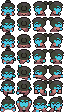
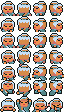
주인공 남성 고정, 히로인 정리, 호칭 체계 추가
- 시작 화면에서 여성 외형을 빼고 남성 외형 5종으로 고정, 이름은 직접 입력해야 시작
- 철우를 연애 대상에서 빼고 호감 70에 의형제를 맺는 인연으로 변경
- 남궁진과 당소연의 그림을 여성 인물로 교체
- 호칭 20종과 메뉴의 호칭 화면 추가, 천하비무 대진표에서 별호 직접 짓기
- 대사, 전투 화면, 엔딩에 고른 호칭 반영
- 옛 저장을 새 설정으로 옮기는 처리 추가

Claude-Session: https://claude.ai/code/session_01UsE88WbmcPGyB1TXiMVMP7

diff --git a/js/life.js b/js/life.js
@@ -12,6 +12,16 @@ import { icon, iconUrl, nameOf, descOf } from './icons.js';
 import { showResult } from './ui.js';
 
 const S = () => G.S, F = () => G.S.flags;
+// 글을 받아 적는 창
+export function askText(title, hint, def, max = 10) {
+  if (G.auto) return Promise.resolve(def);
+  return panel(title, (B, r, close) => {
+    B.innerHTML = `<p class="hint">${esc(hint)}</p><div class="field"><input id="askv" maxlength="${max}" autocomplete="off" style="flex:1;min-width:0;width:auto"> <button class="btn pri" id="askok" style="flex:none;white-space:nowrap">정한다</button></div>`;
+    B.closest('.pane').style.height = 'auto'; const i = $('#askv', B), ok = () => close(i.value.trim() || def); i.value = def; setTimeout(() => { i.focus(); i.select(); }, 300);
+    $('#askok', B).onclick = ok; i.addEventListener('keydown', e => { if (e.key === 'Enter' && !e.isComposing) { e.preventDefault(); e.stopPropagation(); ok(); } });
+  }, 560).then(v => v || def);
+}
+ctx.ask = askText;
 // 범용 창
 export function panel(title, draw, width = 820) {
   return new Promise(res => {
@@ -159,7 +169,7 @@ async function realtor() {
 export const CAND = {
   yun: { name: '윤설', likes: ['tea', 'herb', 'poem', 'honey'], loves: ['ginseng', 'antler', 'hairpin'], hates: ['venom', 'f_catfish'], chat: ['약초를 말릴 때는 그늘이 좋아요. 사람도요.', '장부 정리하다 보면 시간이 금방 가요. 당신 칸이 제일 길어요.', '그렇게 웃으면 약값 깎아 줄 줄 알죠? 조금은요.'], date: ['강가에서 약초를 캤다. 윤설이 말없이 도시락을 내밀었다.', '윤설이 장부를 덮고 산책을 나섰다. 드문 일이다.', '둘이서 약초 이름 맞히기를 했다. 윤설이 전부 이겼다.'], confess: ['…알아요. 창문이 그쪽이라고 했잖아요. 처음부터 다 봤어요.', '좋아해요. 장부에는 안 적을게요.'], propose: ['옥가락지네요. 값은 얼마 줬어요? 아니, 묻지 않을게요.', '네. 약값은 평생 갚아요.'], wife: ['일어났어요? 어제 무리했던데, 이 약 먹어요.', '아침은 차려 놨어요. 장부에는 안 적어요.', '오늘은 다치지 말고 와요.'] },
   so: { name: '소연하', likes: ['plum_wine', 'skewer', 'hairpin'], loves: ['ore_star', 'poem', 'ginseng_soup'], hates: ['sachet', 'sweets'], chat: ['칼을 닦다 보면 생각이 정리돼. 너는 걸레질이 그렇겠네.', '사부 얘기는 이제 괜찮아. 물어봐도 돼.', '오늘 한 판 할래? 지면 술 사.'], date: ['둘이서 비무를 하다가 술을 마셨다. 소연하가 처음으로 크게 웃었다.', '산등성이에서 달을 봤다. 소연하가 칼 대신 술잔을 들었다.', '내기 비무에서 졌다. 술값은 내 몫이다.'], confess: ['…지금 그 말, 비무 도중에 하면 내가 졌겠네.', '그래. 나도야. 이제 칼 얘기 말고 다른 얘기도 해 보자.'], propose: ['가락지보다 칼이 더 익숙한데… 줘 봐. 맞네.', '평생 대련 상대가 되어 줘. 그게 내 대답이야.'], wife: ['일어나. 새벽 대련 안 할 거야?', '네 걸음 아직도 왼발이 늦어. 고쳐 줄게.', '술은 저녁에. 오늘은 내가 살게.'] },
-  cheol: { name: '철우', likes: ['meat', 'skewer', 'noodle'], loves: ['plum_wine', 'ginseng_soup', 'eel_rice'], hates: ['tea', 'herb'], chat: ['시주, 오늘은 뭘 먹었소? 나는 아직이오.', '부처님은 밥값을 말씀하신 적이 없소.', '문은 부수라고 있는 것이오.'], date: ['철우와 시장을 돌며 만두를 먹었다. 값은 내가 냈다.', '철우가 강에 뛰어들어 맨손으로 잉어를 잡았다. 저녁이 해결됐다.', '철우가 불경을 외우다 잠들었다. 코 고는 소리가 불경보다 낭랑했다.'], confess: ['시주… 아니, {나}. 내 평생 밥 사 준 사람은 그대뿐이오.', '소승은 이미 파계했으니 걸릴 것이 없소. 좋소.'], propose: ['이 손으로 가락지를 끼다니, 부처님이 웃으시겠소.', '평생 밥은 내가 짓겠소. 값은 그대가 내고.'], wife: ['밥 지어 놨소. 많이 지었소. 내가 먹으려고.', '아침 수련은 밥 먹고 합시다.', '오늘도 문 하나 고쳐 놨소. 어제 내가 부순 것이오.'] },
+  cheol: { name: '철우', likes: ['meat', 'skewer', 'noodle'], loves: ['plum_wine', 'ginseng_soup', 'eel_rice'], hates: ['tea', 'herb'], chat: ['시주, 오늘은 뭘 먹었소? 나는 아직이오.', '부처님은 밥값을 말씀하신 적이 없소.', '문은 부수라고 있는 것이오.'], date: ['철우와 시장을 돌며 만두를 먹었다. 값은 내가 냈다.', '철우가 강에 뛰어들어 맨손으로 잉어를 잡았다. 저녁이 해결됐다.', '철우가 불경을 외우다 잠들었다. 코 고는 소리가 불경보다 낭랑했다.'], sworn: ['시주… 아니, 아우. 내 평생 밥 사 준 사람은 그대뿐이오.', '소승은 이미 파계했으니 걸릴 것이 없소. 오늘부터 형제요. 밥값은 아우가 내는 것이오.'] },
   clan_dang: { name: '당소연', likes: ['venom', 'herb', 'sachet'], loves: ['antler', 'ginseng', 'hairpin'], hates: ['sweets', 'noodle'], chat: ['내 찻잔엔 손대지 마. 네 건 안전해. 아마도.', '독은 양이 문제야. 사람도 그렇고.', '오늘 네 얼굴색이 좋네. 중독은 아니야.'], date: ['당소연이 새로 만든 약을 시험하자고 했다. 다행히 해독제도 있었다.', '둘이서 독초밭을 걸었다. 묘하게 평화로웠다.', '당소연이 처음으로 독 없는 차를 끓여 주었다.'], confess: ['조심해. 당가 사람 마음을 건드린 사람은 대개 후회해.', '…후회하지 않겠다면, 그래.'], propose: ['가락지에 독침은 안 넣었어. 약속할게.', '좋아. 이제 네 음식은 내가 책임져.'], wife: ['아침밥이야. 해독제는 옆에 뒀어. 농담이야.', '암기 정비 끝. 오늘은 누구 만나러 가?', '네 찻잔은 따로 쓰자. 안전을 위해서.'] },
   clan_moyong: { name: '모용설', likes: ['poem', 'tea', 'silver_cup'], loves: ['hairpin', 'gold_cup', 'f_gold'], hates: ['meat', 'hide'], chat: ['네 말투를 따라 해 봤어. 재미없네.', '받은 만큼 돌려주는 게 모용의 예법이야. 선물도.', '걸레질이 진짜였다니. 믿을 수가 없어.'], date: ['모용설과 시를 지었다. 모용설이 내 시를 그대로 되돌려 주었다.', '거울 앞에서 서로의 초식을 흉내 내며 놀았다.', '모용설이 처음으로 예법을 잊고 웃었다.'], confess: ['돌려주는 게 예법이니까… 나도 같은 말을 돌려줄게.', '좋아해. 이건 흉내가 아니야.'], propose: ['가락지를 돌려줄 생각은 없어.', '받을게. 대신 평생 돌려줄 거야.'], wife: ['네 인사를 그대로 돌려줄게. 잘 잤어?', '오늘은 내가 네 초식을 고쳐 줄게.', '거울이 하나 더 필요해. 둘이 쓰기엔 좁아.'] },
   clan_namgung: { name: '남궁진', likes: ['silver_cup', 'gold_cup', 'tea'], loves: ['ore_star', 'plum_wine', 'poem'], hates: ['meat', 'f_crucian'], chat: ['국수라는 걸 먹어 봤다. …나쁘지 않더군.', '남궁의 검은 출신을 묻지 않는다. 내가 정했다.', '너를 이기기 전에는 눈을 감지 않겠다.'], date: ['남궁진이 처음으로 저잣거리를 걸었다. 어색하게 만두를 들고 있었다.', '둘이서 검을 겨루고 말없이 달을 보았다.', '남궁진이 국수를 두 그릇 먹었다. 비밀로 해 달라고 했다.'], confess: ['…가문에 뭐라고 말해야 할지 계산이 안 된다. 그러나 답은 정해져 있다.', '내 마음도 같다. 검을 걸고 말한다.'], propose: ['남궁세가가 뒤집히겠군. 좋다.', '받겠다. 가문은 내가 설득하지.'], wife: ['일찍 일어났군. 나는 이미 검을 천 번 휘둘렀다.', '국수를 만들어 봤다. 먹어 봐라. 비밀이다.', '오늘도 내가 이긴다.'] },
@@ -168,7 +178,7 @@ const THANKS = {
   yun: ['이걸 어떻게 알았어요? 제일 좋아하는 거예요.', '고마워요. 잘 쓸게요.', '고맙게 받을게요.', '…이걸 저한테요?'], so: ['어떻게 알았어? 이거 진짜 좋아해.', '오, 괜찮네. 고마워.', '고마워. 받아 둘게.', '이런 건 안 좋아해.'], cheol: ['시주! 부처님이 오셨소!', '고맙소. 잘 먹겠소.', '고맙소. 먹는 거요?', '이건 입에 안 맞소.'],
   clan_dang: ['…어떻게 알았지? 조사했어?', '쓸 만하네. 고마워.', '받아 둘게. 독은 안 넣었겠지?', '이건 내가 독을 넣어도 못 살리겠어.'], clan_moyong: ['이런 건 돌려주기 아까운데. 고마워.', '받았어. 언젠가 돌려줄게.', '고마워. 예법대로 받을게.', '이건 그대로 돌려줄게.'], clan_namgung: ['…탐나는 물건이다. 어떻게 구했지?', '나쁘지 않군. 고맙다.', '받아 두지.', '남궁에 이런 것을 가져오다니.'],
 };
-export const stageOf = (id) => { const s = G.S, l = s.love[id] || 0; return s.married === id ? '부부' : s.partner === id ? '연인' : l >= 70 ? '각별한 사이' : l >= 40 ? '가까운 벗' : l >= 15 ? '친구' : '아는 사이'; };
+export const stageOf = (id) => { const s = G.S, l = s.love[id] || 0; return s.sworn === id ? '의형제' : s.married === id ? '부부' : s.partner === id ? '연인' : l >= 70 ? '각별한 사이' : l >= 40 ? '가까운 벗' : l >= 15 ? '친구' : '아는 사이'; };
 const addLove = (id, n) => { G.S.love[id] = clamp((G.S.love[id] || 0) + n, 0, 100); F()['met_' + id] = true; };
 async function giveGift(id) {
   const ids = Object.keys(S().inv).filter(k => DB[k] && ['선물', '요리', '물고기', '재료', '보물'].includes(DB[k].kind));
@@ -190,13 +200,20 @@ async function propose(id) {
   await fadeTo(1); await narr(`${F().step === 'end' ? '달맞이 객잔 마당에 혼례상이 차려졌다.\n곽 아주머니가 국수를 끓였고, 뱃사공 노씨가 울었고,\n철 대장장이는 밥값을 받지 않았다.' : '청하진 사람들이 내 집 마당에 혼례상을 차렸다.\n뱃사공 노씨가 울었고, 철 대장장이는 밥값을 받지 않았다.\n곽 아주머니 자리는 비워 두었다.'}\n\n${S().name}와(과) ${c.name}은(는) 부부가 되었다.`); await fadeTo(0);
   S().married = id; addLove(id, 100); Sound.sfx('ok3'); toast('혼인했다! 배우자가 집에서 기다린다.', 3.5); G.field.refresh();
 }
+async function swear(id) {
+  const c = CAND[id]; await say('me', '형님으로 모시겠습니다.'); for (const l of c.sworn) await say(id, l);
+  S().sworn = id; Sound.sfx('ok3'); toast(`${c.name}와(과) 의형제를 맺었다`, 3); ctx.note(`${c.name}와(과) 의형제를 맺었다.`);
+}
 async function romance(id, base) {
   const c = CAND[id], s = S(), L = s.love[id] || 0, d = s.daily, opts = [];
   opts.push(['이야기한다', async () => { await base(); if (!d['chat_' + id]) { d['chat_' + id] = 1; addLove(id, 3); await say(id, pick(c.chat)); } }]);
   if (!d['gift_' + id]) opts.push(['선물을 준다', () => giveGift(id)]);
-  if (s.partner === id && !d['date_' + id]) opts.push(['나들이를 간다', async () => { d['date_' + id] = 1; addLove(id, 7); await narr(pick(c.date)); }]);
-  if (L >= 70 && !s.partner && !s.married) opts.push(['마음을 전한다', () => confess(id)]);
-  if (s.partner === id && !s.married && L >= 100) opts.push(['혼인을 청한다', () => propose(id)]);
+  if ((s.partner === id || s.sworn === id) && !d['date_' + id]) opts.push([c.sworn ? '밥을 먹으러 간다' : '나들이를 간다', async () => { d['date_' + id] = 1; addLove(id, 7); await narr(pick(c.date)); }]);
+  if (c.sworn) { if (L >= 70 && s.sworn !== id) opts.push(['의형제를 맺는다', () => swear(id)]); }
+  else {
+    if (L >= 70 && !s.partner && !s.married) opts.push(['마음을 전한다', () => confess(id)]);
+    if (s.partner === id && !s.married && L >= 100) opts.push(['혼인을 청한다', () => propose(id)]);
+  }
   opts.push(['그만둔다', async () => { }]);
   const k = await choice(`${c.name} · ${stageOf(id)} (호감 ${L})`, opts.map(o => o[0])); await opts[k][1]();
 }
@@ -253,7 +270,7 @@ Story.providers.push(function content4(id) {
   if (id === 'bamboo') for (const [a, x, y] of [['rabbit', 14, 15.5], ['pheasant', 30.5, 20], ['rabbit', 20, 7.5]]) hunt.push({ kind: a, x, y });
   if (id === 'myhouse') {
     s.house.items.forEach(i => { const a = FURN[i.id].act; if (a) { const [w, h] = size(i.id); sp.push({ x: i.x, y: i.y, w, h, hint: { bed: '잠자기', cook: '요리하기', bench: '가구 만들기', book: '책 읽기', dummy: '수련하기' }[a], act: () => furnAct(a) }); } });
-    if (s.married) n.push({ id: s.married, spr: { yun: 'Princess', so: 'RedSamurai', cheol: 'Monk2', clan_dang: 'Dang', clan_moyong: 'Moyong', clan_namgung: 'Namgung' }[s.married], x: 4, y: 3.5, dir: 0, talk: async () => { await say(s.married, pick(CAND[s.married].wife)); } });
+    if (s.married) n.push({ id: s.married, spr: { yun: 'Princess', so: 'RedSamurai', clan_dang: 'Dang', clan_moyong: 'Moyong', clan_namgung: 'Namgung' }[s.married], x: 4, y: 3.5, dir: 0, talk: async () => { await say(s.married, pick(CAND[s.married].wife)); } });
   }
   return { npcs: n, spots: sp, trigs: [], roam: [], hunt };
 });

diff --git a/js/ui.js b/js/ui.js
@@ -1,4 +1,5 @@
 // 제목 화면, 주인공 만들기, 메뉴, 상점, 결과창
+import { TITLES } from './titles.js';
 import { G, IMG, Input, Sound, $, $$, el, esc, toast, clamp, wait, fadeTo, TS } from './core.js';
 import { SKILLS, WEAPONS, HEARTS, ITEMS, rankOf, expNeed } from './data.js';
 import { newState, stats, save, load, hasSave, masteryLv, canEquip, DIFF, learn, have, give, take } from './state.js';
@@ -7,7 +8,7 @@ import { icon } from './icons.js';
 import { Story } from './story.js';
 import { CLANS, SAPA, clansWon } from './clandata.js';
 
-const LOOKS = [['BlueSamurai', '상투 머리'], ['Boy', '다홍 머리'], ['Villager3', '곱슬 머리'], ['Cavegirl2', '보랏빛 머리'], ['Woman', '금빛 머리'], ['Villager4', '단발 머리']];
+const LOOKS = [['BlueSamurai', '상투 머리'], ['Boy', '다홍 머리'], ['Villager3', '곱슬 머리'], ['GrayNinja', '머리띠'], ['DarkNinja', '검은 복면']];
 function titleBg(c) {
   c.setTransform(1, 0, 0, 1, 0, 0); const g = c.createLinearGradient(0, 0, 0, 720); g.addColorStop(0, '#1b2348'); g.addColorStop(.62, '#4b3560'); g.addColorStop(1, '#c0694a'); c.fillStyle = g; c.fillRect(0, 0, 1280, 720);
   c.fillStyle = '#f7eecb'; c.beginPath(); c.arc(960, 170, 76, 0, 7); c.fill(); c.fillStyle = 'rgba(247,238,203,.12)'; c.beginPath(); c.arc(960, 170, 120, 0, 7); c.fill();
@@ -24,7 +25,7 @@ function drawLook(cv, key) { const x = cv.getContext('2d'); cv.width = 16; cv.he
 function showCreate() {
   const s = $('#screen'); let look = 0, diff = 'normal';
   s.innerHTML = `<div class="sheet"><div class="card"><h2>어떤 낭인입니까?</h2><div class="hint">군막에서는 번호로 불렸습니다. 이름 하나만은 잊지 않았습니다.</div>
-  <div class="field"><span>이름</span><input id="nm" maxlength="6" value="진소" autocomplete="off"></div>
+  <div class="field"><span>이름</span><input id="nm" maxlength="6" placeholder="이름을 입력하세요" autocomplete="off"></div>
   <div class="looks" id="lk"></div>
   <div class="field"><span>난이도</span><div class="seg" id="df"></div></div>
   <div class="hint">쉬움은 적이 약하고, 어려움은 적의 공격이 세고 체력도 많습니다. 나중에 바꿀 수 없습니다.</div>
@@ -32,7 +33,7 @@ function showCreate() {
   LOOKS.forEach(([k, n], i) => { const b = el('button', 'look' + (i === 0 ? ' on' : '')), cv = document.createElement('canvas'); drawLook(cv, k); b.appendChild(cv); b.appendChild(document.createTextNode(n)); b.onclick = () => { look = i; $$('.look').forEach((e, j) => e.classList.toggle('on', j === i)); Sound.sfx('tick'); }; $('#lk').appendChild(b); });
   for (const k of ['easy', 'normal', 'hard']) { const b = el('button', 'btn' + (k === diff ? ' on' : ''), DIFF[k].name); b.onclick = () => { diff = k; $$('#df .btn').forEach(e => e.classList.remove('on')); b.classList.add('on'); }; $('#df').appendChild(b); }
   $('#back').onclick = showTitle;
-  $('#go').onclick = () => { const name = ($('#nm').value.trim() || '진소').slice(0, 6); G.S = newState(name, LOOKS[look][0], look < 3 ? 'm' : 'f', diff); s.innerHTML = ''; G.bgDraw = null; Story.begin(); };
+  $('#go').onclick = () => { const name = $('#nm').value.trim().slice(0, 6); if (!name) { Sound.sfx('cancel'); $('#nm').focus(); return; } G.S = newState(name, LOOKS[look][0], 'm', diff); s.innerHTML = ''; G.bgDraw = null; Story.begin(); };
   setTimeout(() => $('#nm').focus(), 50);
 }
 // ── 메뉴 ──
@@ -51,16 +52,27 @@ function drawMenu() {
   M.innerHTML = `<div class="menu"><div class="pane"><div class="tabs">${tabs.map(([k, n]) => `<button data-t="${k}" class="${k === tab ? 'on' : ''}">${n}</button>`).join('')}<button class="x">닫기 (Esc)</button></div><div class="body"></div></div></div>`;
   $$('.tabs button[data-t]', M).forEach(b => b.onclick = () => { tab = b.dataset.t; Sound.sfx('tick'); drawMenu(); });
   $('.tabs .x', M).onclick = closeMenu;
-  const B = $('.body', M); ({ stat: tabStat, skill: tabSkill, tree: tabTree, gear: tabGear, bag: tabBag, clan: tabClan, note: tabNote, love: tabLove, set: tabSet })[tab](B); B.scrollTop = keep;
+  const B = $('.body', M); ({ stat: tabStat, skill: tabSkill, tree: tabTree, gear: tabGear, bag: tabBag, clan: tabClan, note: tabNote, love: tabLove, set: tabSet, title: tabTitle })[tab](B); B.scrollTop = keep;
 }
 function tabStat(B) {
   const S = G.S, st = stats(), need = expNeed(S.lv);
   const line = (k, label, v, tip) => `<div class="stat"><b>${label}</b><span>${v} <small class="hint">${tip}</small></span>${S.pts > 0 ? `<button class="btn sm" data-up="${k}">+1</button>` : ''}</div>`;
-  B.innerHTML = `<div class="two"><div><h2>${esc(S.name)}</h2><div class="hint">경지 <b style="color:var(--red);font-weight:400">${rankOf(S.lv)}</b> · ${S.lv}성 · 다음 깨달음까지 ${need - S.exp}</div>
+  B.innerHTML = `<div class="two"><div><h2>${esc(S.name)}</h2><div class="hint" style="margin-bottom:6px">호칭 <b style="color:var(--red);font-weight:400">${esc(S.title)}</b> <button class="btn sm" id="ttl">바꾸기</button></div><div class="hint">경지 <b style="color:var(--red);font-weight:400">${rankOf(S.lv)}</b> · ${S.lv}성 · 다음 깨달음까지 ${need - S.exp}</div>
   <div class="stat"><b>체력</b><span>${st.maxHp}</span></div><div class="stat"><b>내력</b><span>${st.maxMp} (초당 ${st.regen.toFixed(1)} 회복)</span></div><div class="stat"><b>공격력</b><span>${st.atk.toFixed(0)}</span></div><div class="stat"><b>방어</b><span>${st.def.toFixed(0)}</span></div><div class="stat"><b>은자</b><span>${S.silver} 냥</span></div><div class="stat"><b>금창약</b><span>${S.potion} / ${S.potionMax} 개</span></div><div class="stat"><b>내 집</b><span>${S.house.lv ? HOUSES[S.house.lv].name : '없음'}</span></div></div>
   <div><h2>능력치 ${S.pts > 0 ? `<span class="tag ult">남은 점수 ${S.pts}</span>` : ''}</h2>${line('str', '근력', S.str, '공격력')}${line('con', '근골', S.con, '체력과 방어')}${line('agi', '민첩', S.agi, '속도, 치명타, 쿨타임')}${line('inn', '내공', S.inn, '내력과 초식 위력')}
   <p class="hint" style="margin-top:12px">전투로 깨달음이 쌓이면 점수를 얻습니다. 초식은 많이 쓸수록 성이 오르고 강해집니다.</p></div></div>`;
   $$('[data-up]', B).forEach(b => b.onclick = () => { S[b.dataset.up]++; S.pts--; Sound.sfx('tick'); drawMenu(); });
+  $('#ttl', B).onclick = () => { tab = 'title'; Sound.sfx('tick'); drawMenu(); };
+}
+function tabTitle(B) {
+  const S = G.S, free = S.flags.title_free;
+  B.innerHTML = `<div class="row" style="justify-content:space-between;margin-bottom:10px"><h2 style="margin:0">호칭 <span class="tag ult">${esc(S.title)}</span></h2><button class="btn sm" id="tback">돌아가기</button></div>
+  ${free ? `<div class="field"><span>직접 짓기</span><input id="tname" maxlength="10" autocomplete="off" placeholder="별호를 적으세요"> <button class="btn sm" id="tset" style="flex:none;white-space:nowrap">정한다</button></div>` : '<p class="hint">구화성 천하비무에 등록하면 별호를 직접 지을 수 있습니다.</p>'}
+  <div class="list">${TITLES.map(t => S.titles.includes(t.id) ? `<button class="item ${t.name === S.title ? 'eq' : ''}" data-tt="${t.name}">${t.name}<small>${t.how}</small></button>` : `<div class="item" style="opacity:.45">……<small>${t.how}</small></div>`).join('')}</div>`;
+  const use = n => { S.title = n; Sound.sfx('accept'); drawMenu(); };
+  $('#tback', B).onclick = () => { tab = 'stat'; Sound.sfx('tick'); drawMenu(); };
+  $$('[data-tt]', B).forEach(b => b.onclick = () => use(b.dataset.tt));
+  if (free) { const i = $('#tname', B), ok = () => { const n = i.value.trim(); if (n) use(n); }; $('#tset', B).onclick = ok; i.addEventListener('keydown', e => { if (e.key === 'Enter' && !e.isComposing) ok(); }); }
 }
 function tabSkill(B) {
   const S = G.S; const skl = id => SKILLS[id];
@@ -129,9 +141,9 @@ function tabNote(B) {
 }
 function tabLove(B) {
   const S = G.S, L = G.life, list = Object.entries(L.cand).filter(([k]) => S.flags['met_' + k] || (S.love[k] || 0) > 0);
-  const faces = { yun: 'Princess', so: 'RedSamurai', cheol: 'Monk2', clan_dang: 'Dang', clan_moyong: 'Moyong', clan_namgung: 'Namgung' }, desc = { yun: '청하진 약방집 딸. 말이 짧고 손이 빠르다.', so: '벽수궁 출신의 검객. 찾는 사람이 있다.', cheol: '소림에서 쫓겨난 스님. 밥값을 낸 적이 없다.', clan_dang: '사천당가의 딸. 찻잔에 손대지 말 것.', clan_moyong: '받은 것은 그대로 돌려주는 모용세가의 딸.', clan_namgung: '남궁세가의 후계자. 자존심이 높다.' };
+  const faces = { yun: 'Princess', so: 'RedSamurai', cheol: 'Monk2', clan_dang: 'Dang', clan_moyong: 'Moyong', clan_namgung: 'Namgung' }, desc = { yun: '청하진 약방집 딸. 말이 짧고 손이 빠르다.', so: '벽수궁 출신의 검객. 찾는 사람이 있다.', cheol: '소림에서 쫓겨난 스님. 밥값을 낸 적이 없다.', clan_dang: '사천당가의 딸. 찻잔에 손대지 말 것.', clan_moyong: '받은 것은 그대로 돌려주는 모용세가의 딸.', clan_namgung: '남궁세가의 딸이자 후계자. 자존심이 높다.' };
   if (!list.length) { B.innerHTML = '<p class="hint">아직 가까운 사람이 없습니다.</p>'; return; }
-  B.innerHTML = `<p class="hint">이야기는 하루 한 번, 선물도 하루 한 번. 호감 70이면 마음을 전할 수 있고, 연인이 되어 호감 100에 옥가락지와 집이 있으면 혼인을 청할 수 있습니다.</p>` + list.map(([k, c]) => `<div class="note" style="display:flex;gap:14px;align-items:center"><canvas data-f="${faces[k]}" width="38" height="38" style="width:66px;height:66px;image-rendering:pixelated"></canvas><div style="flex:1"><b style="font-weight:400;font-size:19px">${c.name}</b> <span class="tag ${S.partner === k || S.married === k ? 'ult' : ''}">${L.stageOf(k)}</span> <small class="hint">호감 ${S.love[k] || 0}</small><div class="bar" style="height:10px;margin:4px 0"><i class="val" style="width:${S.love[k] || 0}%"></i></div><div class="hint">${desc[k]}</div></div></div>`).join('');
+  B.innerHTML = `<p class="hint">이야기는 하루 한 번, 선물도 하루 한 번. 호감 70이면 마음을 전할 수 있고, 연인이 되어 호감 100에 옥가락지와 집이 있으면 혼인을 청할 수 있습니다. 철우와는 호감 70에 의형제를 맺습니다.</p>` + list.map(([k, c]) => `<div class="note" style="display:flex;gap:14px;align-items:center"><canvas data-f="${faces[k]}" width="38" height="38" style="width:66px;height:66px;image-rendering:pixelated"></canvas><div style="flex:1"><b style="font-weight:400;font-size:19px">${c.name}</b> <span class="tag ${S.partner === k || S.married === k || S.sworn === k ? 'ult' : ''}">${L.stageOf(k)}</span> <small class="hint">호감 ${S.love[k] || 0}</small><div class="bar" style="height:10px;margin:4px 0"><i class="val" style="width:${S.love[k] || 0}%"></i></div><div class="hint">${desc[k]}</div></div></div>`).join('');
   $$('canvas[data-f]', B).forEach(c => { const x = c.getContext('2d'); x.imageSmoothingEnabled = false; const im = IMG['faces/' + c.dataset.f]; if (im) x.drawImage(im, 0, 0); });
 }
 function tabSet(B) {

diff --git a/js/story2.js b/js/story2.js
@@ -128,7 +128,16 @@ async function monkMeet() {
   F().met_cheol = true; F().monk_met = true;
 }
 const ROUNDS = [['fighter_a', '공동파 곽충'], ['fighter_b', '팽가 방계 마혜'], ['fighter_c', '곤륜파 등표'], ['cheolu_spar', '소림 파계승 철우']];
+async function bracketName() {
+  await say('judge', '대진표를 쓰겠소. 이름은 적었고, 별호는 뭐요?');
+  await say('me', '별호요?');
+  await say('judge', '강호에 이름 석 자만 들고 나오는 사람은 없소. 없으면 지금 지으시오. 대진표에 오른 이름이 곧 강호에 도는 이름이오.');
+  S().title = await ctx.ask('별호 짓기', '대진표에 올릴 별호를 적으세요. 메뉴의 상태에서 언제든 다시 바꿀 수 있습니다.', S().title);
+  await say('judge', '{호} {나}. 적었소.');
+  F().title_free = true;
+}
 async function judge() {
+  if (!F().title_free) await bracketName();
   const r = F().round || 0;
   if (!F().monk_met) { await say('judge', '등록은 받았소. 그런데 객잔 소동부터 해결하고 오시오. 그쪽 사람들이 난리요.'); return; }
   if (r === 2 && !F().chief_met) { await say('judge', '맹주께서 찾으시오. 정천맹 객관으로 가 보시오.'); return; }
@@ -137,6 +146,7 @@ async function judge() {
   const [id, name] = ROUNDS[r];
   const c = await choice(`${r + 1}회전 상대는 ${name}. 올라가시겠소?`, ['올라간다', '조금 더 준비한다'], 'judge');
   if (c) return;
+  await say('judge', '{호} {나}, 비무대로 오르시오.');
   if (id === 'cheolu_spar') { await say('cheol', '시주! 빚은 빚이고 비무는 비무요. 힘껏 치시오. 내가 이기면 밥 한 끼 더 사시오.'); }
   await ctx.duel({ foes: [id], arena: 'ring', bgm: 'boss', title: `${r + 1}회전 · ${name}`, yieldAt: .25 });
   F().round = r + 1;
@@ -201,8 +211,8 @@ async function finalMatch() {
   const c = await choice(`결승 상대는 소연하. 끝나면 구화성을 떠나게 될 것 같다.${left ? ` (아직 비무하지 않은 세력 ${left}곳)` : ''}`, ['올라간다', '조금 더 준비한다'], 'judge'); if (c) return;
   await say('so', '말했지. 안 봐줘.');
   await ctx.duel({ foes: ['so_final'], arena: 'ring', bgm: 'boss', title: '결승 · 소연하', yieldAt: .2 });
-  await say('so', '…졌다. 분하네. 칼이 가벼워졌어, 점소이.');
-  await say('judge', '천하비무대회 우승자, {나}!');
+  await say('so', '…졌다. 분하네. 칼이 가벼워졌어, {호}.');
+  await say('judge', '천하비무대회 우승자, {호} {나}!');
   await narr('함성 속에서 맹주가 직접 달거울을 건넸다.\n그날 밤 정천맹 객관에서 구파일방과 오대세가의 장문인들이 모인 축하 연회가 열렸다.');
   await ctx.warp('hall2', 7, 8, 1);
   await say('chief', '잔을 들어라. 네 아버지도 술이 약했지.');
@@ -299,6 +309,7 @@ async function ending() {
   if (c === 2) { await narr('달맞이 객잔이 다시 문을 열었다.\n윤씨 약방이 장부를 들고 찾아오고,\n벽수궁의 검객이 국수를 먹고 가고,\n파계승은 오늘도 밥값이 없다.'); }
   if (F().baek_live) await say('baek', '점소이. 방값 가져왔다. 이자는 깎자.');
   { const q = S().married || S().partner; if (q) await say(q, G.life.pick(G.life.cand[q].chat)); }
+  await narr('강호에 이름 하나가 남았다.\n{호} {나}.');
   await narr('그해 겨울, 서쪽 하늘에 붉은 달이 떴다.\n개방의 거지들이 밥그릇을 엎었고,\n사파의 깃발 아래에서도 처음으로 침묵이 흘렀다.\n\n강호행 · 제1막 끝\n이야기는 제7부 ‘붉은 달’로 이어집니다.');
   set('end'); F().cleared = true; ctx.goal('');
   await ctx.warp('cheongha', 22.5, 16, 0);
@@ -309,7 +320,7 @@ Story.providers.push(function content2(id) {
   if (id === 'pass' && at('c2a')) { /* 창운산 가는 길 */ }
   if (id === 'cloudmt') {
     if (at('c2a')) tr.push({ x: 18, y: 28, w: 10, h: 6, when: () => at('c2a'), run: arrive });
-    n.push({ id: 'go', spr: 'Inspector', x: 22.5, y: 19, dir: 0, mark: () => at('c2b'), when: () => !after('c3a'), talk: async () => { if (at('c2b')) await exam(); else await say('go', `수련을 게을리하지 마라, ${S().gender === 'f' ? '사매' : '사제'}.`); } });
+    n.push({ id: 'go', spr: 'Inspector', x: 22.5, y: 19, dir: 0, mark: () => at('c2b'), when: () => !after('c3a'), talk: async () => { if (at('c2b')) await exam(); else await say('go', '수련을 게을리하지 마라, 사제.'); } });
     n.push({ id: 'disc', spr: 'GreenNinja', x: 15, y: 19, dir: 3, talk: async () => { const c = await choice('연무장에서 대련할까?', ['대련한다', '그만둔다'], 'disc'); if (c === 0) await ctx.duel({ foes: ['disciple', 'disciple'], arena: 'court', title: '대련', optional: true, bgm: 'fight' }); } });
     n.push({ id: 'smith2', spr: 'Caveman2', x: 32, y: 23, dir: 2, talk: async () => { await say('smith', '창운문 병기창이오. 값은 치르시오.'); await ctx.shop('창운문 병기창', [ctx.item.weapon('blue_sword'), ctx.item.weapon('ghost_blade'), ctx.item.weapon('dragon_spear'), ctx.item.weapon('iron_gauntlet'), ctx.item.potion()]); } });
     sp.push({ x: 39, y: 7, w: 3, h: 3, hint: '살펴보기', act: moss });
@@ -326,7 +337,7 @@ Story.providers.push(function content2(id) {
     n.push({ id: 'judge', spr: 'Inspector', x: 24.5, y: 15, dir: 0, mark: () => after('c3b') && !after('c4a'), when: () => !after('c4a'), talk: judge });
     n.push({ id: 'yun', spr: 'Princess', x: 13, y: 15, dir: 3, mark: () => (F().round || 0) >= 1 && !F().ev_lantern, when: () => !after('c4a') && S().married !== 'yun', talk: async () => { if ((F().round || 0) >= 1 && !F().ev_lantern) await lantern(); else await say('yun', '금창약은 넉넉해요? 값은 장부에.'); } });
     n.push({ id: 'so', spr: 'RedSamurai', x: 34, y: 15, dir: 2, mark: () => at('c3e') && !F().ev_soeve, when: () => (!after('c4a') || at('end')) && S().married !== 'so', talk: async () => { if (at('c3e') && !F().ev_soeve) await soEve(); else await say('so', '칼은 닦았어?'); } });
-    n.push({ id: 'cheol', spr: 'Monk2', x: 20, y: 22, dir: 3, mark: () => !!F().monk_met && !F().ev_cheol, when: () => !!F().monk_met && (!after('c4a') || at('end')) && S().married !== 'cheol', talk: async () => { if (!F().ev_cheol) await cheolDrink(); else await say('cheol', '나무아미… 저 만두 하나만.'); } });
+    n.push({ id: 'cheol', spr: 'Monk2', x: 20, y: 22, dir: 3, mark: () => !!F().monk_met && !F().ev_cheol, when: () => !!F().monk_met && (!after('c4a') || at('end')), talk: async () => { if (!F().ev_cheol) await cheolDrink(); else await say('cheol', '나무아미… 저 만두 하나만.'); } });
     n.push({ id: 'boat', spr: 'OldMan2', x: 26.5, y: 29, dir: 2, talk: async () => { const c = await choice('청하진으로 갈까?', ['간다', '그만둔다'], 'boat'); if (!c) await ctx.warp('cheongha', 22.5, 26, 1); } });
   }
   if (id === 'inn2') {

diff --git a/js/state.js b/js/state.js
@@ -6,7 +6,7 @@ const KEY = 'gangho_save_v1';
 export const DIFF = { easy: { name: '쉬움', foeAtk: .7, foeHp: .85 }, normal: { name: '보통', foeAtk: 1, foeHp: 1 }, hard: { name: '어려움', foeAtk: 1.3, foeHp: 1.2 } };
 export function newState(name, look, gender, diff) {
   return {
-    v: 2, name, look, gender, diff, lv: 1, exp: 0, pts: 0, str: 5, con: 5, agi: 5, inn: 5, silver: 20,
+    v: 3, name, look, gender, diff, title: '떠돌이 낭인', titles: ['ronin', 'dog'], sworn: null, lv: 1, exp: 0, pts: 0, str: 5, con: 5, agi: 5, inn: 5, silver: 20,
     weapon: 'stick', weapons: ['stick'], skills: [], slots: [null, null, null, null], heart: 'none', hearts: ['none'],
     potion: 3, potionMax: 3, rep: { jeong: 0, sa: 0 }, inv: {}, accs: [], tree: {}, tp: 0, acc: null, wplus: {}, meal: null, house: { lv: 0, items: [], furn: {} }, daily: {}, taken: {}, fishLog: {}, partner: null, married: null, mastery: {}, flags: {}, love: { yun: 0, so: 0, cheol: 0, clan_dang: 0, clan_moyong: 0, clan_namgung: 0 }, pages: [], notes: [], goal: '', map: 'inn', x: 0, y: 0, dir: 0, wanted: {}, time: 0, day: 1,
   };
@@ -20,6 +20,7 @@ export function bonus(S = G.S) {
   if (S.acc && ACCS[S.acc]) add(ACCS[S.acc].fx);
   if (S.meal && S.meal.left > 0) add(DB[S.meal.id].meal);
   if (S.married && SPOUSE_FX[S.married]) add(SPOUSE_FX[S.married]);
+  if (S.sworn && SPOUSE_FX[S.sworn]) add(SPOUSE_FX[S.sworn]);
   if (S.rested === S.day) add({ atk: 5 });
   return b;
 }
@@ -58,13 +59,20 @@ export function save(slient = true) {
 export function load() { try { const r = localStorage.getItem(KEY); return r ? fill(migrate(JSON.parse(r))) : null; } catch (e) { return null; } }
 // 예전 저장을 새 형식으로 옮긴다
 function migrate(S) {
-  if ((S.v || 1) >= 2) return S;
-  const d = newState(S.name, S.look, S.gender, S.diff);
-  for (const k in d) if (S[k] === undefined) S[k] = d[k];
-  for (const k in d.love) { if (S.love[k] === undefined) S.love[k] = 0; else S.love[k] *= 15; }
-  S.tp = S.lv - 1; S.v = 2; return S;
+  if ((S.v || 1) < 2) {
+    const d = newState(S.name, S.look, S.gender, S.diff);
+    for (const k in d) if (S[k] === undefined) S[k] = d[k];
+    for (const k in d.love) { if (S.love[k] === undefined) S.love[k] = 0; else S.love[k] *= 15; }
+    S.tp = S.lv - 1; S.v = 2;
+  }
+  if (S.v < 3) { // 주인공은 남성으로 고정, 철우는 인연에서 의형제로
+    S.gender = 'm'; if (['Cavegirl2', 'Woman', 'Villager4'].includes(S.look)) S.look = 'BlueSamurai';
+    if (S.married === 'cheol' || S.partner === 'cheol') { S.sworn = 'cheol'; if (S.married === 'cheol') S.married = null; if (S.partner === 'cheol') S.partner = null; }
+    S.v = 3;
+  }
+  return S;
 }
-function fill(S) { if (!S.rep) S.rep = { jeong: 0, sa: 0 }; return S; }
+function fill(S) { if (!S.rep) S.rep = { jeong: 0, sa: 0 }; if (!S.title) S.title = '떠돌이 낭인'; if (!S.titles) S.titles = ['ronin', 'dog']; if (S.sworn === undefined) S.sworn = null; return S; }
 export const have = id => (G.S.inv[id] || 0);
 export function give(id, n = 1) { G.S.inv[id] = have(id) + n; }
 export function take(id, n = 1) { G.S.inv[id] = have(id) - n; if (G.S.inv[id] <= 0) delete G.S.inv[id]; }

diff --git a/js/titles.js b/js/titles.js
@@ -1,0 +1,32 @@
+// 강호 호칭: 조건을 채우면 얻고, 메뉴에서 골라 쓴다
+import { G, Sound, toast } from './core.js';
+import { CLANS } from './clandata.js';
+
+export const DEFAULT_TITLE = '떠돌이 낭인';
+const won = (S, group) => CLANS.filter(c => (!group || c.group === group) && S.flags['clan_' + c.id]).length;
+export const TITLES = [
+  { id: 'ronin', name: DEFAULT_TITLE, how: '처음부터' },
+  { id: 'dog', name: '견대의 마지막 개', how: '처음부터' },
+  { id: 'tray', name: '쟁반 점소이', how: '객잔의 왈패를 쟁반으로 내보낸다', ok: S => S.skills.includes('tray') },
+  { id: 'guard', name: '청하진의 칼', how: '그믐날 나루를 지킨다', ok: () => G.after('c1e') },
+  { id: 'moon', name: '월하문의 마지막 아이', how: '우물 아래에서 편지를 읽는다', ok: S => S.flags.well_open },
+  { id: 'cloud', name: '창운문의 객', how: '창운문의 일을 매듭짓는다', ok: () => G.after('t1') },
+  { id: 'sweep', name: '장경각 청소부', how: '소림 장경각 바닥을 닦는다', ok: () => G.after('t4') },
+  { id: 'champ', name: '천하비무 제일인', how: '구화성 천하비무에서 우승한다', ok: () => G.after('c4a') },
+  { id: 'end', name: '달을 이은 사람', how: '월하곡에서 연경추를 쓰러뜨린다', ok: S => S.flags.cleared },
+  { id: 'nine', name: '구파일방의 손님', how: '구파일방 다섯 곳에게 인정받는다', ok: S => won(S, '구파일방') >= 5 },
+  { id: 'five', name: '오대세가의 골칫거리', how: '오대세가를 모두 꺾는다', ok: S => won(S, '오대세가') >= 5 },
+  { id: 'walker', name: '강호행자', how: '열다섯 세력에게 모두 인정받는다', ok: S => won(S) >= 15 },
+  { id: 'loot', name: '남의 물건 수집가', how: '비무로 물건 열 개를 가져온다', ok: S => Object.keys(S.taken).length >= 10 },
+  { id: 'fish', name: '청하 강태공', how: '물고기 여덟 종을 낚는다', ok: S => Object.keys(S.fishLog).length >= 8 },
+  { id: 'house', name: '집 있는 낭인', how: '집을 산다', ok: S => S.flags.own_house },
+  { id: 'rich', name: '은자 주머니', how: '은자 삼천 냥을 모은다', ok: S => S.silver >= 3000 },
+  { id: 'wed', name: '공처가', how: '혼인한다', ok: S => S.married },
+  { id: 'bro', name: '밥값 내는 아우', how: '철우와 의형제를 맺는다', ok: S => S.sworn === 'cheol' },
+  { id: 'hero', name: '협객', how: '정파 평판 3', ok: S => S.rep.jeong >= 3 },
+  { id: 'sapa', name: '사파의 벗', how: '사파 평판 3', ok: S => S.rep.sa >= 3 },
+];
+export function checkTitles() {
+  const S = G.S; if (!S) return;
+  for (const t of TITLES) if (t.ok && !S.titles.includes(t.id) && t.ok(S)) { S.titles.push(t.id); Sound.sfx('bonus'); toast(`호칭을 얻었다: ${t.name}`, 3); }
+}

diff --git a/js/clandata.js b/js/clandata.js
@@ -27,7 +27,7 @@ export const CLANS = [
   { id: 'gaebang', group: '구파일방', name: '개방', han: '丐幇', who: '홍두 장로', spr: 'Gaebang', tier: 2, wpn: 'Stick', moves: ['tagu', 'hangryong', 'chain_kick', 'quick'], gift: ['tagu', 'hangryong'], at: ['ninehall', 38.5, 19.4], desc: '천하의 거지가 모인 일방. 강호의 소문은 모두 여기로 흐른다.',
     intro: [['밥 한 술만… 농담이다. 네가 철우 밥값을 대신 냈다며?'], ['me', '그게 벌써 거기까지 갔어요?'], ['개방의 귀는 천 개다. 입은 만 개고. 한 판 하고 얘기하자.']], win: [['밥값은 받은 셈 치마. 하나 알려 주지. 맹주 창고로 들어가는 쌀이 맹에 있는 사람 수보다 많다.'], ['거기서 누가 먹고 있는지는 나도 모른다. 얼굴을 안 보여 주는 놈들이라.']] },
   { id: 'namgung', group: '오대세가', name: '남궁세가', han: '南宮世家', who: '남궁진', spr: 'Namgung', tier: 3, wpn: 'Rapier', moves: ['sky_sword', 'cloud_flash', 'flurry', 'wind_turn', 'fan5'], gift: ['sky_sword'], heart: 'changgung', at: ['fiveclans', 5, 10.4], desc: '천하제일 검가를 자처하는 명문. 자존심이 하늘을 찌른다.',
-    intro: [['출신 모를 자가 맹주 자리에 앉은 것도 불쾌한데, 이제 점소이가 비무대에 오르는군.'], ['me', '국수는 드셔 보셨어요?'], ['…뽑아라.']], win: [['사과하지. 남궁의 검은 이제부터 출신을 묻지 않겠다.']] },
+    intro: [['출신 모를 자가 맹주 자리에 앉은 것도 불쾌한데, 이제 {호}까지 비무대에 오르는군.'], ['me', '국수는 드셔 보셨어요?'], ['…뽑아라.']], win: [['사과하지. 남궁의 검은 이제부터 출신을 묻지 않겠다.']] },
   { id: 'moyong', group: '오대세가', name: '모용세가', han: '慕容世家', who: '모용설', spr: 'Moyong', tier: 3, wpn: 'Katana', moves: ['ihwa', 'blink', 'flurry', 'fan5'], gift: ['ihwa'], at: ['fiveclans', 16, 10.4], desc: '상대의 초식을 상대에게 돌려주는 기이한 가문.',
     intro: [['네 초식은 네게 돌려줄게. 모용의 예법이야.'], ['me', '받은 걸 돌려주는 건 좋은 예법이네요. 방값도 그렇게 해 주시면…'], ['무슨 소리야?']], win: [['돌려줄 수 없는 것도 있구나. 그 걸음은 뭐지?'], ['me', '걸레질이요.'], ['…장난치지 마.']] },
   { id: 'jegal', group: '오대세가', name: '제갈세가', han: '諸葛世家', who: '제갈현', spr: 'Jegal', tier: 3, wpn: 'Stick', moves: ['palmun', 'rain', 'ring8', 'fan5'], keep: 95, gift: ['palmun'], at: ['fiveclans', 28, 10.4], desc: '진법과 지략의 가문. 정천맹의 작전은 대개 이곳에서 나온다.',

diff --git a/js/battle.js b/js/battle.js
@@ -1,5 +1,5 @@
 // 직접 조작 전투
-import { G, IMG, Input, Sound, $, $$, el, STEP, VW, VH, SCALE, TS, clamp, lerp, rnd, rint, pick, hyp, snap, drawActorSprite, drawShadow, whiteOf, wait } from './core.js';
+import { G, IMG, Input, Sound, $, $$, el, esc, STEP, VW, VH, SCALE, TS, clamp, lerp, rnd, rint, pick, hyp, snap, drawActorSprite, drawShadow, whiteOf, wait } from './core.js';
 import { SKILLS, BASIC, WEAPONS } from './data.js';
 import { MOVES, FOES } from './foes.js';
 import { arena, ARENA_W, ARENA_H, drawStamp, STAMPS } from './tiles.js';
@@ -536,7 +536,7 @@ export class Battle {
   buildHud() {
     const h = $('#hud'); h.innerHTML = '';
     const p = this.p, S = G.S;
-    h.innerHTML = `<div class="bars"><div class="bname">${p.name}</div><div class="bar"><i class="lag" id="hLag"></i><i class="val" id="hVal"></i><b id="hTxt"></b></div><div class="bar mp"><i class="val" id="mVal"></i><b id="mTxt"></b></div></div>`;
+    h.innerHTML = `<div class="bars"><div class="bname">${esc(S.title)} ${esc(p.name)}</div><div class="bar"><i class="lag" id="hLag"></i><i class="val" id="hVal"></i><b id="hTxt"></b></div><div class="bar mp"><i class="val" id="mVal"></i><b id="mTxt"></b></div></div>`;
     const bosses = this.actors.filter(a => a.boss && a.team === 1);
     if (bosses.length) { const b = bosses[0]; this.bossA = b; h.insertAdjacentHTML('beforeend', `<div class="boss"><div class="bname">${(b.def_.title ? b.def_.title + ' ' : '') + (b.def_.nameplate || b.name)}</div><div class="bar"><i class="lag" id="bLag"></i><i class="val" id="bVal"></i></div><div class="bar pos"><i class="val" id="bPos"></i></div></div>`); }
     const key = (i) => 'UIOP'[i];

diff --git a/js/field.js b/js/field.js
@@ -7,6 +7,7 @@ import { Story } from './story.js';
 import { openMenu } from './ui.js';
 import { DB } from './items.js';
 import { give } from './state.js';
+import { checkTitles } from './titles.js';
 
 const DIRV = [[0, 1], [0, -1], [-1, 0], [1, 0]];
 export class Field {
@@ -38,7 +39,7 @@ export class Field {
   async run(fn) {
     if (this.busy) return; this.busy = true; Input.clear();
     try { await fn(); } catch (e) { console.error(e); }
-    this.busy = false; if (G.scene === 'field') { this.refresh(); if (!$('#goal')) this.showHud(); } G.S.px = this.p.x; G.S.py = this.p.y; G.S.dir = this.p.dir; save();
+    this.busy = false; checkTitles(); if (G.scene === 'field') { this.refresh(); if (!$('#goal')) this.showHud(); } G.S.px = this.p.x; G.S.py = this.p.y; G.S.dir = this.p.dir; save();
   }
   async warp(id, tx, ty, dir = 0) {
     await fadeTo(1); this.load(id, tx, ty, dir); await wait(.08); await fadeTo(0);

diff --git a/css/style.css b/css/style.css
@@ -31,7 +31,7 @@ h1,h2,h3{font-family:Galmuri11Bold,Galmuri14,sans-serif;font-weight:400}
 .sheet{position:absolute;inset:0;display:flex;align-items:center;justify-content:center;background:rgba(10,8,6,.72)}
 .card{background:var(--paper);border:4px solid var(--ink);box-shadow:0 8px 0 var(--ink);padding:26px 30px;width:820px;max-height:680px;overflow:auto}
 .card h2{font-size:26px;margin-bottom:12px}
-.looks{display:grid;grid-template-columns:repeat(6,1fr);gap:10px;margin:12px 0 18px}
+.looks{display:grid;grid-template-columns:repeat(5,1fr);gap:10px;margin:12px 0 18px}
 .look{background:var(--paper2);border:3px solid var(--line);padding:8px 4px;text-align:center;font-size:14px}
 .look.on{border-color:var(--red);background:#fff3d6}
 .look canvas{width:96px;height:96px;image-rendering:pixelated;display:block;margin:0 auto 4px}

diff --git a/js/dialog.js b/js/dialog.js
@@ -28,7 +28,7 @@ function render(c) {
   d.appendChild(box);
 }
 function click(c) { Input.press('ok'); setTimeout(() => Input.release('ok'), 30); }
-const sub = s => s.replaceAll('{나}', G.S ? G.S.name : '');
+const sub = s => s.replaceAll('{나}', G.S ? G.S.name : '').replaceAll('{호}', G.S ? G.S.title : '');
 export function say(who, text, expr) { return new Promise(res => { const c = { type: 'say', who, text: sub(text), expr, n: 0, res }; D.cur = c; render(c); }); }
 export function narr(text) { return new Promise(res => { const c = { type: 'narr', text: sub(text), n: 0, res }; D.cur = c; render(c); }); }
 export function choice(q, opts, who) {

diff --git a/js/story1.js b/js/story1.js
@@ -9,6 +9,7 @@ const at = (...a) => a.includes(step());
 const after = v => ORDER.indexOf(step()) >= ORDER.indexOf(v);
 const ORDER = ['p0', 'p0a', 'p1', 'p2', 'p3', 'p4', 'p5', 'c1a', 'c1b', 'c1c', 'c1d', 's1', 's2', 's3', 's4', 'c1e', 'c1f', 'c1g', 'c1h', 'c2a', 'c2b', 'c2c', 'c2d', 'c2e', 'c2f', 'c2g', 'c2h', 't1', 't2', 't3', 't4', 't5', 'c3a', 'c3b', 'c3c', 'c3d', 'c3e', 'c3f', 'c3g', 'c4a', 'c4b', 'c4c', 'c4d', 'c4e', 'end'];
 export { step, set, at, after };
+G.after = after;
 const overBlack = on => $('#dialog').classList.toggle('over', on);
 
 Story.scenes.opening = async () => {

diff --git a/tools/recolor.py b/tools/recolor.py
@@ -1,7 +1,7 @@
 # 팩의 인물 그림을 색만 바꿔 세력 대표용 변형을 만든다
 import colorsys
 from PIL import Image
-PAIRS = [('BlueSamurai', 'Namgung', 170, False), ('Princess', 'Moyong', 205, True), ('Inspector', 'Jegal', 120, True), ('RedNinja2', 'Dang', 275, False), ('Lion', 'Paeng', 195, False), ('RedNinja', 'Hwasan', 325, False), ('Villager3', 'Gaebang', 55, True), ('Monk2', 'Sodi', 80, True)]
+PAIRS = [('Princess', 'Moyong', 205, True), ('Inspector', 'Jegal', 120, True), ('Cavegirl2', 'Dang', 300, True), ('Lion', 'Paeng', 195, False), ('RedNinja', 'Hwasan', 325, False), ('Villager3', 'Gaebang', 55, True), ('Monk2', 'Sodi', 80, True)]
 def shift(path, out, deg, keep_skin):
     im = Image.open(path).convert('RGBA'); px = im.load()
     for y in range(im.height):
@@ -14,6 +14,20 @@ def shift(path, out, deg, keep_skin):
             r, g, b = colorsys.hsv_to_rgb((h + deg / 360) % 1, s, v)
             px[x, y] = (round(r * 255), round(g * 255), round(b * 255), a)
     im.save(out)
+# 금발만 은발로 바꾼다 (남궁진)
+def silver(path, out):
+    im = Image.open(path).convert('RGBA'); px = im.load()
+    for y in range(im.height):
+        for x in range(im.width):
+            r, g, b, a = px[x, y]
+            if a == 0: continue
+            h, s, v = colorsys.rgb_to_hsv(r / 255, g / 255, b / 255)
+            if s < .12 or not .105 < h < .19: continue
+            r, g, b = colorsys.hsv_to_rgb(.58, s * .35, min(1, v * 1.02))
+            px[x, y] = (round(r * 255), round(g * 255), round(b * 255), a)
+    im.save(out)
+silver('assets/chars/Woman.png', 'assets/chars/Namgung.png')
+silver('assets/faces/Woman.png', 'assets/faces/Namgung.png')
 for a, b, d, k in PAIRS:
     shift(f'assets/chars/{a}.png', f'assets/chars/{b}.png', d, k)
     shift(f'assets/faces/{a}.png', f'assets/faces/{b}.png', d, k)
